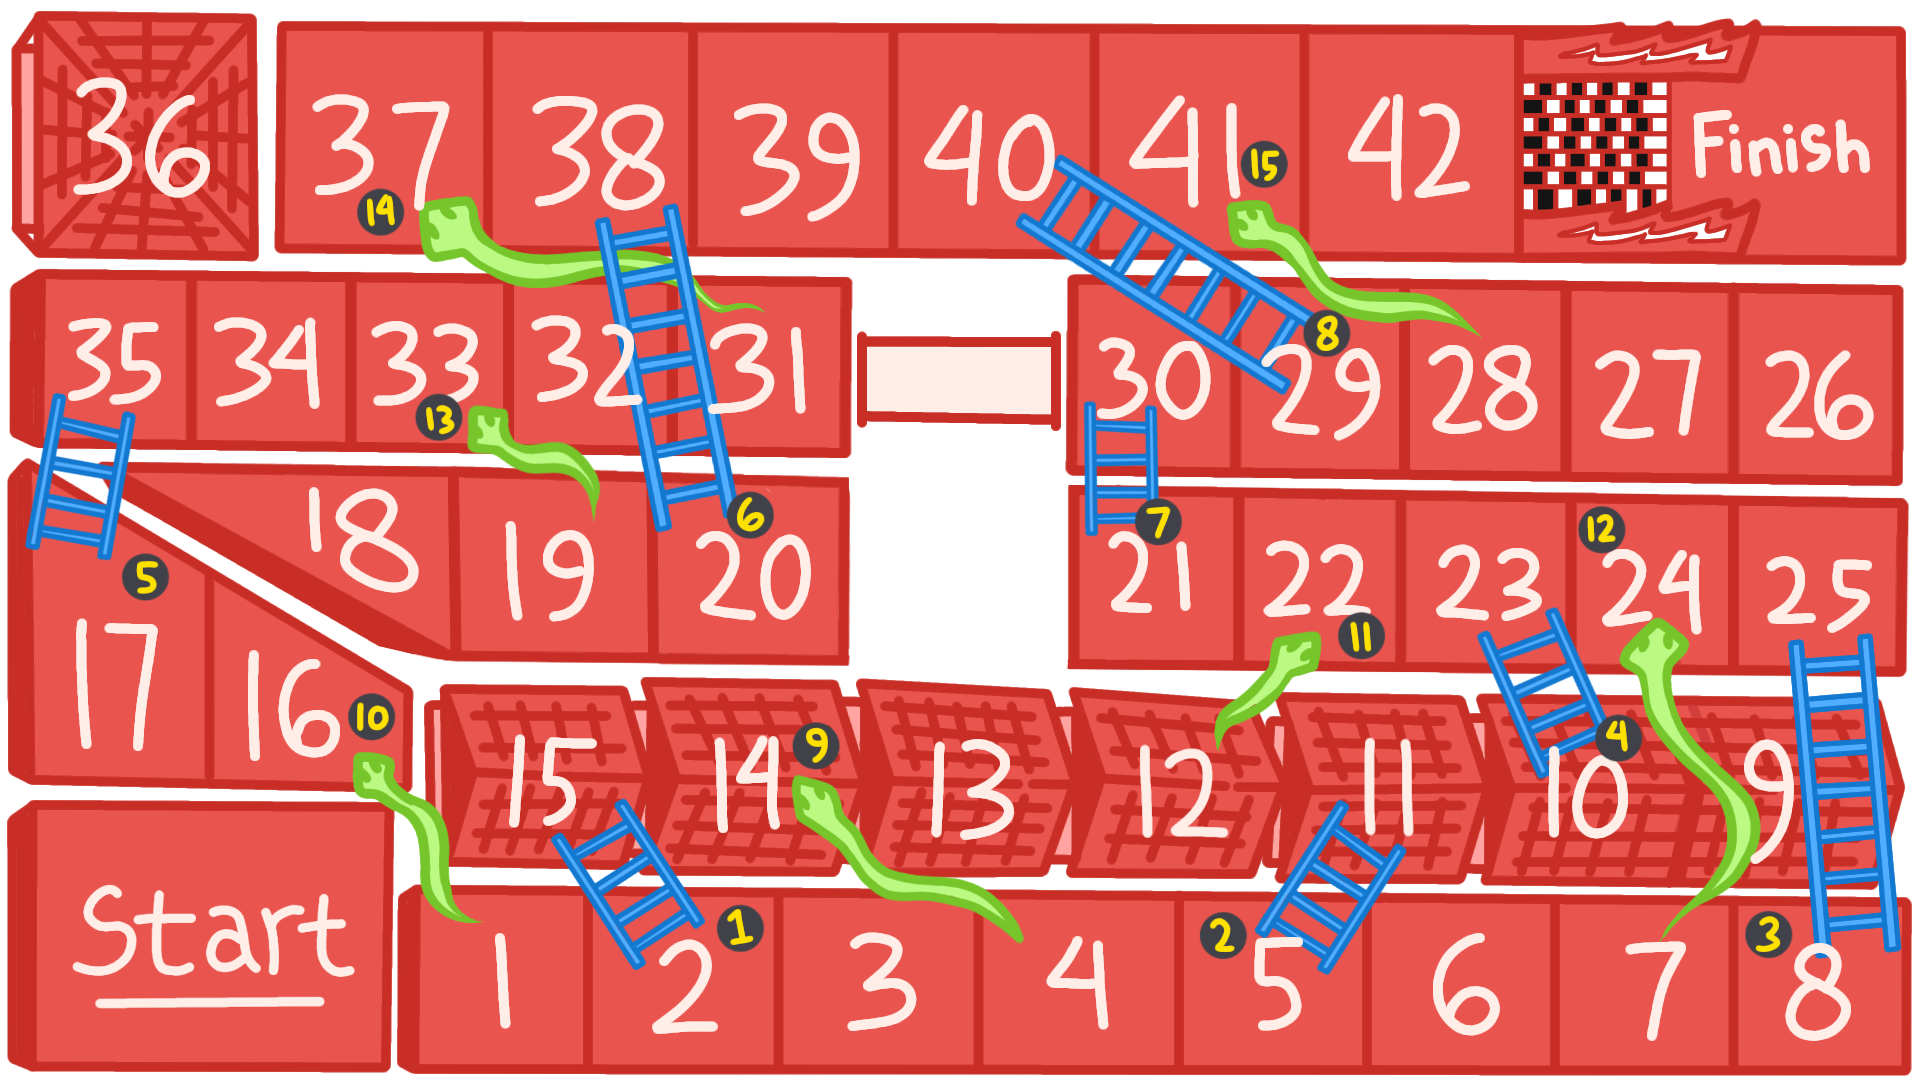
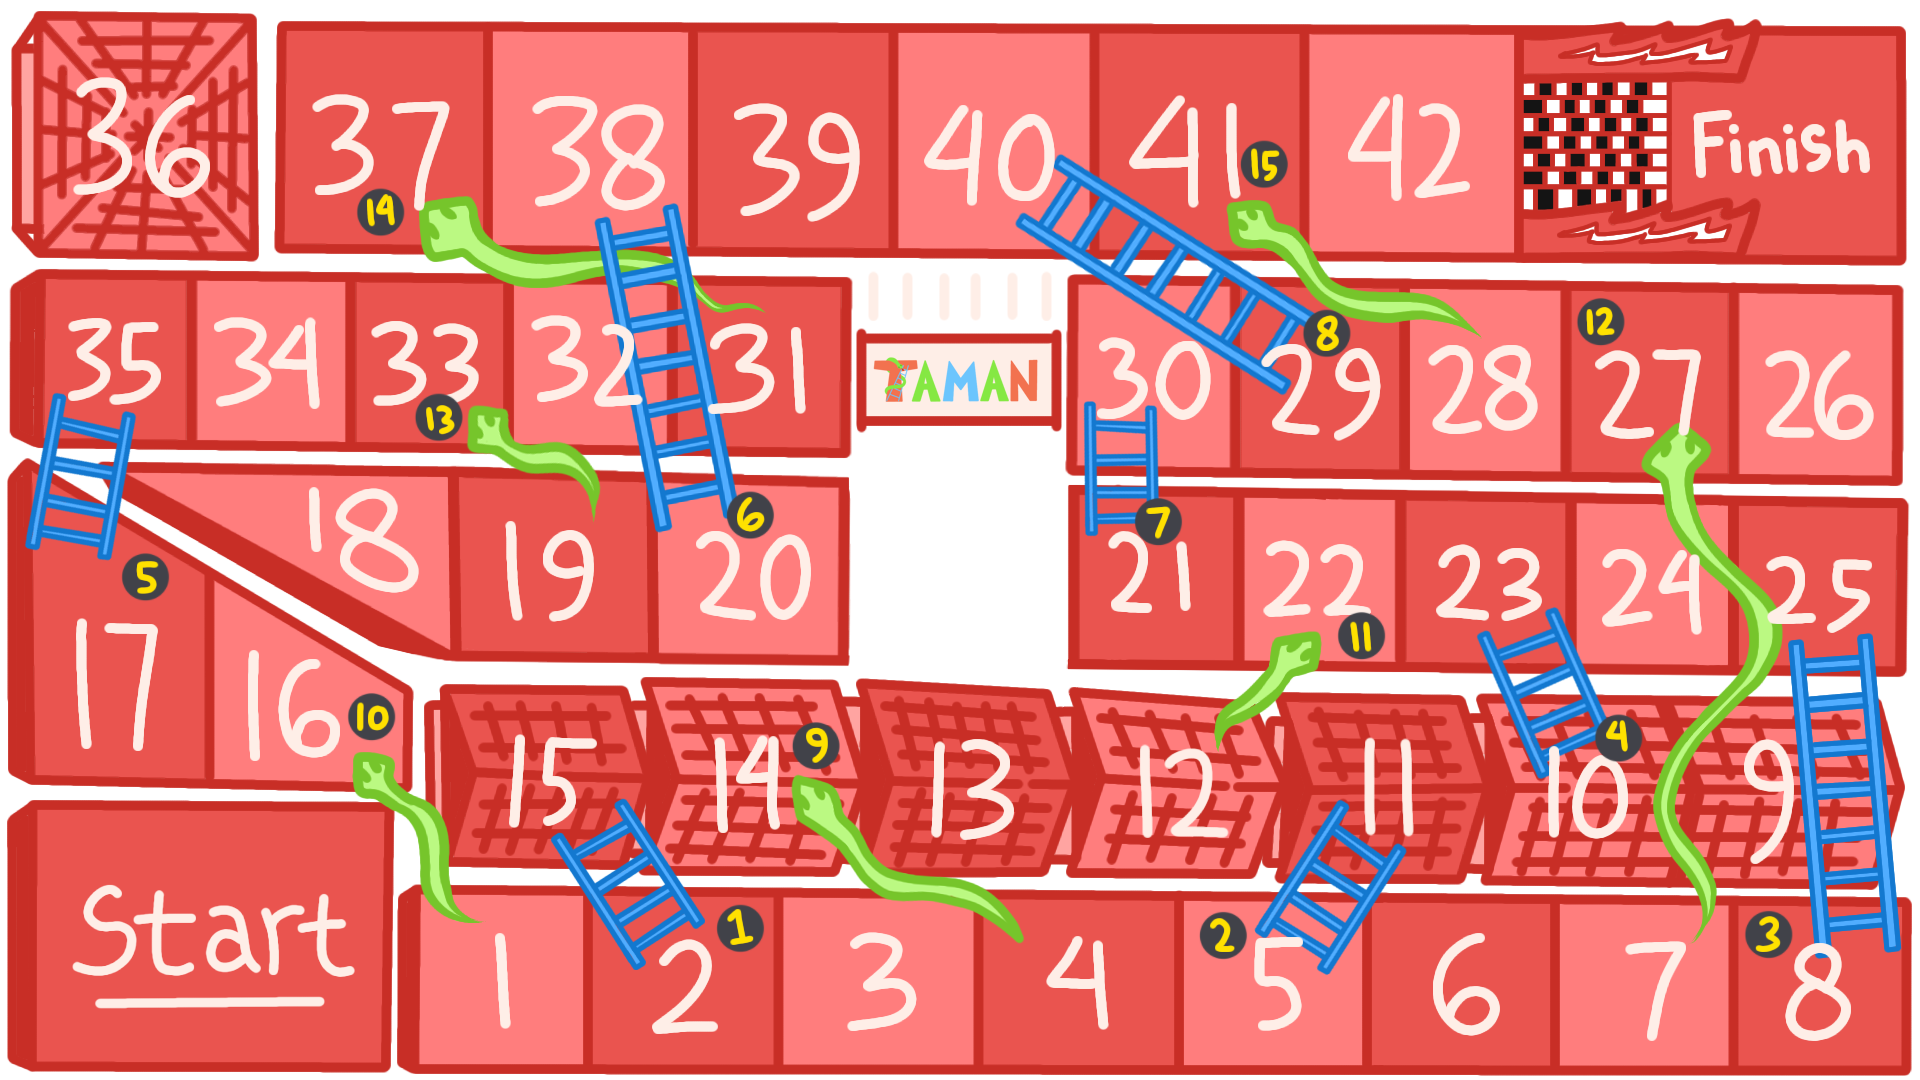
update

diff --git a/games-script=input-file&rollDice&bidak.js b/games-script=input-file&rollDice&bidak.js
@@ -536,6 +536,7 @@ window.addEventListener("DOMContentLoaded", () => {
 });
 
 function pickRollDice() {
+  klik();
   if (currentWordIndex >= words.length) {
     currentWordIndex = 0;
   }
@@ -551,22 +552,6 @@ function pickRollDice() {
 
   localStorage.setItem("currentWordIndex", currentWordIndex);
   localStorage.setItem("currentColorIndex", currentColorIndex);
-}
-
-const inputVideo = document.getElementById("input-file-video");
-const videoElement = document.querySelector(".video-explain video");
-
-inputVideo.addEventListener("submit", () => {
-  const file = inputVideo.files[0];
-  const videoURL = URL.createObjectURL(file);
-
-  videoElement.src = videoURL;
-  localStorage.setItem("videoUrl", videoURL);
-});
-
-const savedVideoUrl = localStorage.getItem("videoUrl");
-if (savedVideoUrl) {
-  videoElement.src = savedVideoUrl;
 }
 
 const removeVideo = document.querySelector(".removeVideo");

diff --git a/games-script=quiz.js b/games-script=quiz.js
@@ -322,6 +322,12 @@ pointQuestion.forEach((pointQuestion) => {
 let succesInput = document.querySelector(".succesInput");
 
 function editContent(event) {
+  const file = inputVideo.files[0];
+  const videoURL = URL.createObjectURL(file);
+
+  videoElement.src = videoURL;
+  localStorage.setItem("videoUrl", videoURL);
+
   event.preventDefault(); // Mencegah halaman untuk refresh
   const inputQuestion = document.querySelectorAll(
     'textarea[name="pertanyaan"]'
@@ -560,3 +566,11 @@ window.addEventListener("DOMContentLoaded", () => {
     }
   }
 });
+
+const inputVideo = document.getElementById("input-file-video");
+const videoElement = document.querySelector(".video-explain video");
+
+const savedVideoUrl = localStorage.getItem("videoUrl");
+if (savedVideoUrl) {
+  videoElement.src = savedVideoUrl;
+}

diff --git a/index.html b/index.html
@@ -5,6 +5,7 @@
     <meta http-equiv="X-UA-Compatible" content="IE=edge" />
     <meta name="viewport" content="width=device-width, initial-scale=1.0" />
     <title>webGame</title>
+    <link rel="shortcut icon" href="img/icon-taman.png" type="image/x-icon">
     <!-- link box icon -->
     <link
       href="https://unpkg.com/boxicons@2.1.4/css/boxicons.min.css"
@@ -38,7 +39,7 @@
     </div>
 
     <header>
-      <a href="index.html" class="logo">Web Games</a>
+      <a href="index.html" class="logo"><img src="img/logo-taman.png" alt=""></a>
       <div class="bx bx-menu" id="menu-icon"></div>
 
       <ul class="navbar">

diff --git a/games-script.js b/games-script.js
@@ -253,11 +253,11 @@ for (let q = 0; q < questionInput.length; q++) {
 
 const smooth = document.querySelector(".smooth");
 smooth.onclick = () => {
-  board.style.backgroundImage = "url(img/board.png)";
+  board.style.backgroundImage = "url(img/papanUlarTangga-smooth.png)";
 };
 const height = document.querySelector(".height");
 height.onclick = () => {
-  board.style.backgroundImage = "url(img/board-hd.jpg)";
+  board.style.backgroundImage = "url(img/papanUlarTangga.png)";
 };
 
 const editQuestion = document.querySelector(".edit-question");

diff --git a/games-style.css b/games-style.css
@@ -747,8 +747,8 @@ input[name="trueOption"]:focus {
   border-radius: 5px;
   color: #fff;
 }
-.setting .smooth:hover,
-.setting .height:hover {
+.setting .smooth:focus,
+.setting .height:focus {
   background: #fff;
   color: #262333;
 }
@@ -1162,6 +1162,10 @@ button:focus {
   border-radius: 15px;
   box-shadow: 0 5px 15px rgb(0, 0, 0, 0.25);
   cursor: pointer;
+  transition: all 0.1s ease;
+}
+#dice:active {
+  box-shadow: 0 0 10px 3px #ff0000;
 }
 
 #rollButton {

diff --git a/permainan-ular-tangga.html b/permainan-ular-tangga.html
@@ -5,6 +5,7 @@
     <meta http-equiv="X-UA-Compatible" content="IE=edge" />
     <meta name="viewport" content="width=device-width, initial-scale=1.0" />
     <title>games</title>
+    <link rel="shortcut icon" href="img/icon-taman.png" type="image/x-icon">
     <!-- library slick slider (css) -->
     <link
       href="

diff --git a/loaders.css b/loaders.css
@@ -29,7 +29,7 @@
 
 .loadingspinner div {
   display: inline-block;
-  background: #68cfff;
+  background: #f45050;
   /*background: var(--text-color);*/
   /*box-shadow: 1px 1px 1px rgba(0, 0, 0, 0.4);*/
   border: none;

diff --git a/style.css b/style.css
@@ -42,10 +42,8 @@ header {
   box-shadow: 0 1px 20px 0 rgb(0, 0, 0, 0.5);
 }
 
-.logo {
-  color: var(--main-color);
-  font-weight: 600;
-  font-size: 2rem;
+.logo img {
+  width: 185px;
 }
 
 .navbar {
